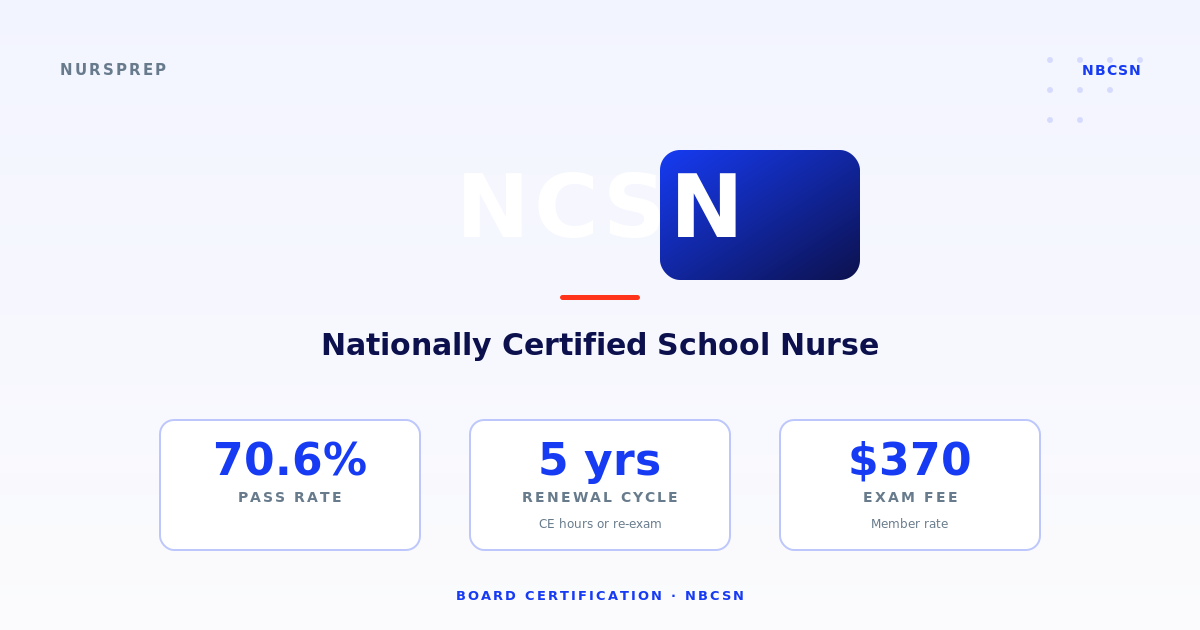
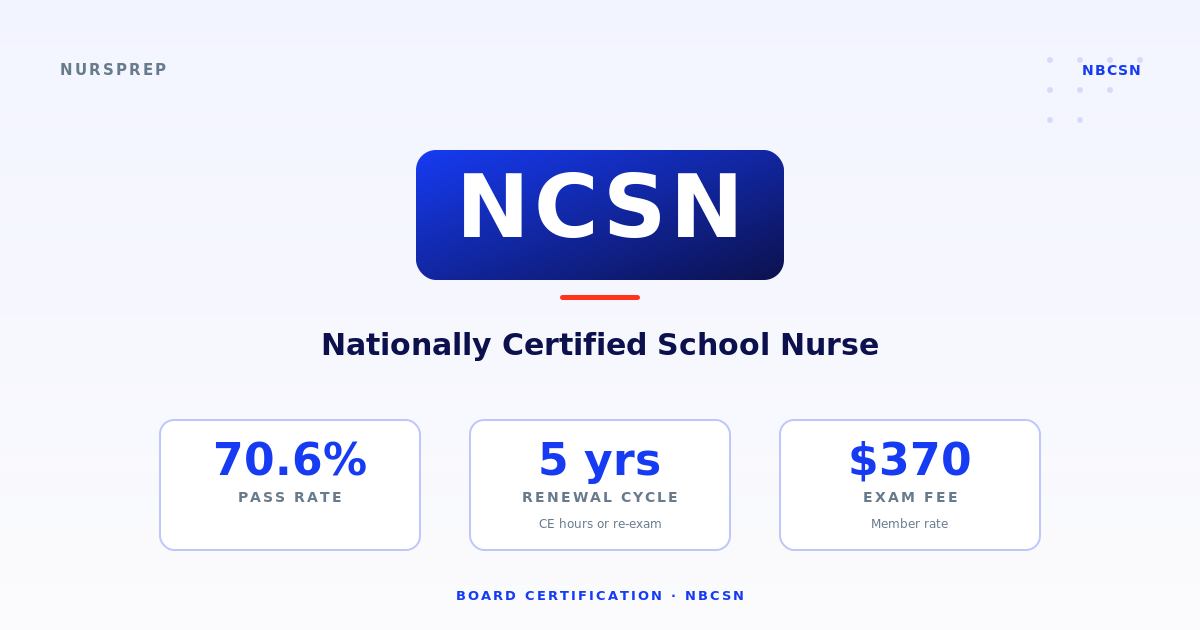
Fix badge-sizing bug in generate-hero.js, regenerate 10 cards
Bug: my refactor of generate-hero.js had a wrong badgeBox formula —
hardcoded step function for width (200/240/280/320) and x=60. The
SVG template positions the acronym text inside a translate(600 215)
group at x=0, so the badge x must be NEGATIVE (-w/2) to center it,
and the width must scale with the acronym length.

Original badgeBox: w = length × 62 + 120, x = -w/2.
Restored that exact formula.

Symptom before fix: short acronyms like CHPN rendered with only the
last letter visible inside the badge; the first letters floated in
white-on-light-purple invisibility.

Regenerated 10 affected PNGs: CFRN (overwritten in prior commit),
CHPN, RNC-OB, NE-BC, NPD-BC, PMH-BC, ACHPN, BMTCN, AMB-BC, NCSN.
The other 8 existing cards (CAPA, CDCES, CNOR, CRRN, NEA-BC, PCCN,
SCRN, TCRN) were not regenerated and are still correct from their
original 2026-04 generation.

Changed region(s): [[0.3392, 0.2111, 0.74, 0.4524]]

diff --git a/scripts/generate-hero.js b/scripts/generate-hero.js
@@ -43,10 +43,18 @@ function getField(entries, labelRegex) {
   const hit = entries.find((e) => labelRegex.test(e.k));
   return hit ? hit.v : null;
 }
+// Badge auto-width based on acronym length so a short code (CAPA) and a long
+// code (NEA-BC) both sit proportionally inside the pill. Origin is at the
+// SVG group's translate (600,215), so x must be negative to center the badge.
+function badgeBox(acronym) {
+  const charWidth = 62; // heuristic at font-size 88, weight 900
+  const padding = 60;
+  const w = acronym.length * charWidth + padding * 2;
+  return { w, x: -w / 2 };
+}
+
 function fillTemplate(tpl, data) {
-  const len = data.ACRONYM.length;
-  const w = len <= 4 ? 200 : len <= 6 ? 240 : len <= 8 ? 280 : 320;
-  const x = 60;
+  const box = badgeBox(data.ACRONYM);
   return tpl
     .replace(/\{\{ACRONYM\}\}/g, data.ACRONYM)
     .replace(/\{\{NAME\}\}/g, data.NAME)
@@ -56,8 +64,8 @@ function fillTemplate(tpl, data) {
     .replace(/\{\{RENEWAL\}\}/g, data.RENEWAL)
     .replace(/\{\{FEE\}\}/g, data.FEE)
     .replace(/\{\{SLUG\}\}/g, data.SLUG)
-    .replace(/\{\{BADGE_W\}\}/g, w)
-    .replace(/\{\{BADGE_X\}\}/g, x);
+    .replace(/\{\{BADGE_W\}\}/g, box.w)
+    .replace(/\{\{BADGE_X\}\}/g, box.x);
 }
 
 function render(slug) {
